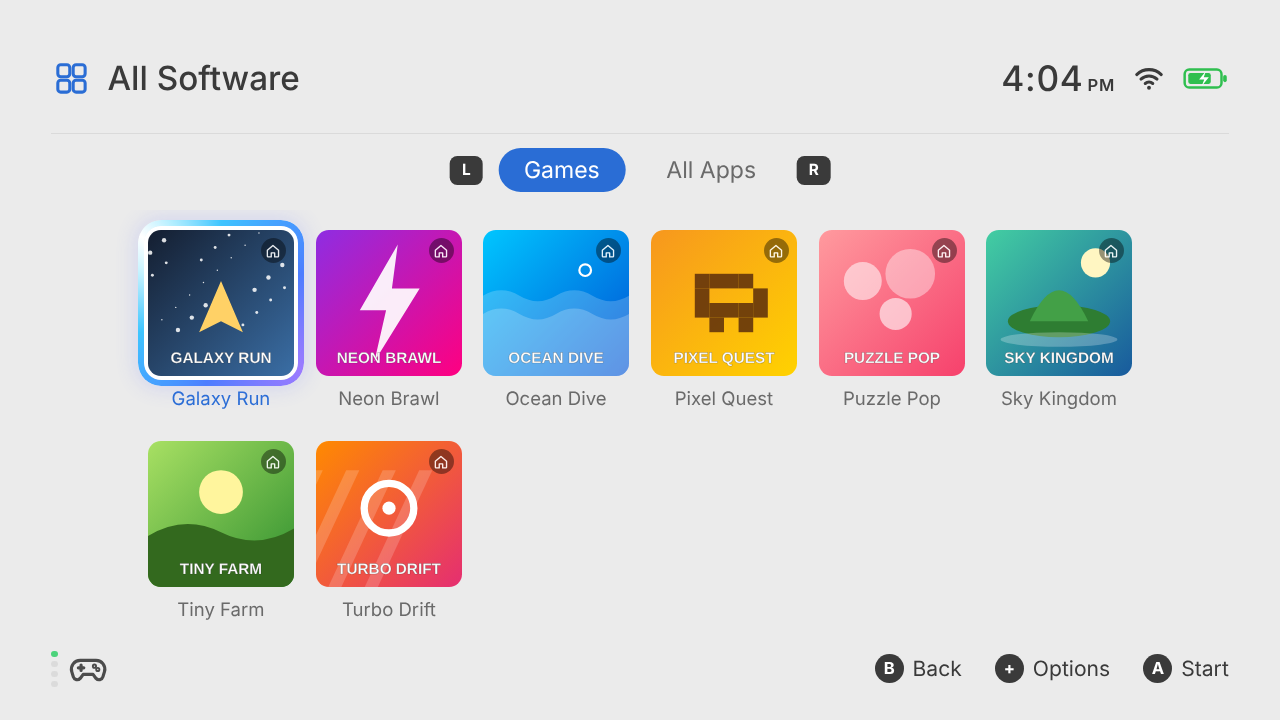
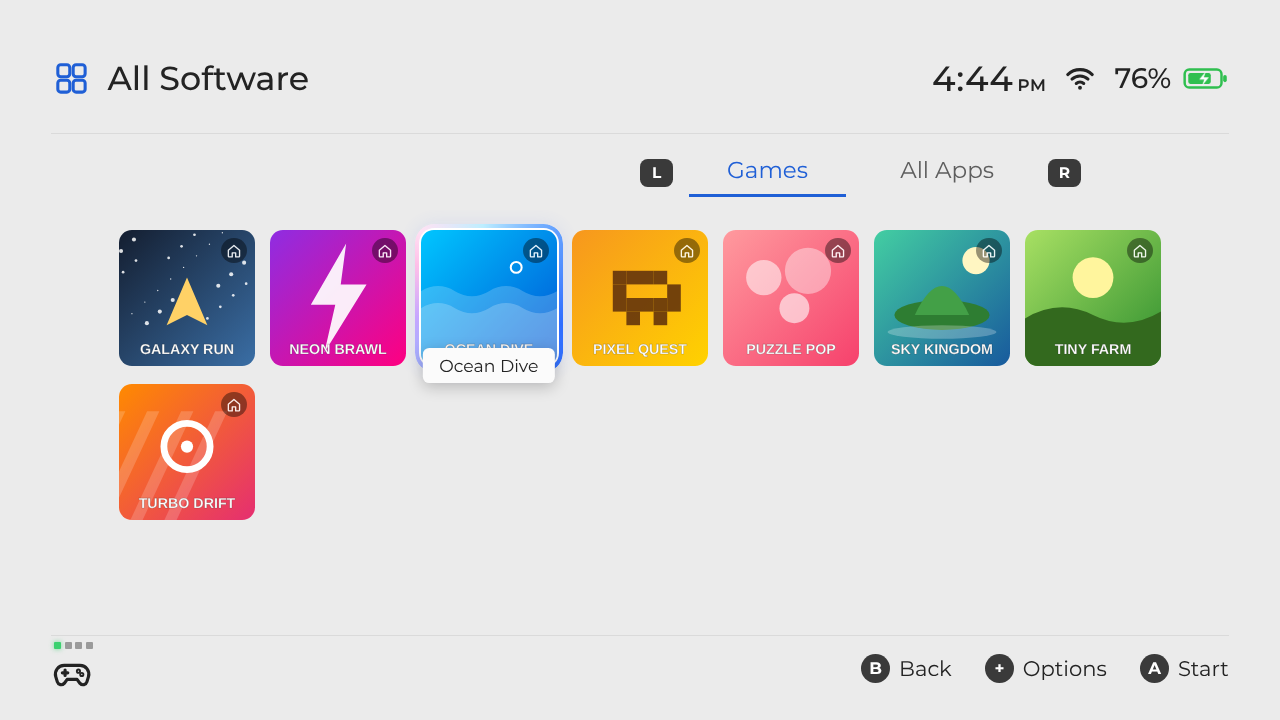
Match the Switch 2 home screen more closely
Based on the home screen tour video:
- Thinner, tighter selection ring in pastel blue/lavender/pink
- Title with a small card icon just left of the tile, text lined up
- Round "View More" button at the end of the row
- Player lights above the controller icon, battery % shown by default
- "A Start" hint on games; larger, bolder dock icons
- All Software: no captions, name pill on the selected tile,
  underlined tabs, tighter grid
- Settings: row separators, blue bar on the current category,
  rule above the button hints
- Refreshed README screenshots

Claude-Session: https://claude.ai/code/session_01PM9wMc1UAW85AwMEWBmdjh

diff --git a/app/src/main/assets/www/index.html b/app/src/main/assets/www/index.html
@@ -29,11 +29,11 @@
   --r: calc(var(--u) * 1);
   --font: "Montserrat", "Roboto", "Noto Sans", "Segoe UI", system-ui, -apple-system, sans-serif;
   --ring: conic-gradient(from var(--a), #3ec5ff 0deg, #4d7dff 70deg, #9b7bff 130deg, #4d7dff 190deg, #3ec5ff 250deg, #c9f4ff 292deg, #ffffff 310deg, #b5efff 328deg, #3ec5ff 360deg);
-  --glow: rgba(120, 132, 255, .45);
+  --glow: rgba(110, 140, 255, .32);
 }
 html[data-theme=white] {
-  --bg:#e9e9e9; --ovBg:#ebebeb; --fg:#3a3a3a; --fg2:#6a6a6a; --accent:#2a6dd5;
-  --slot:#f6f6f6; --pill:#f2f2f2; --pillLine:transparent; --selBg:#ffffff; --gapRing:#ffffff;
+  --bg:#ebebeb; --ovBg:#ebebeb; --fg:#232323; --fg2:#5e5e5e; --accent:#1f5fd6;
+  --slot:#f7f7f7; --pill:#f6f6f6; --pillLine:transparent; --selBg:#ffffff; --gapRing:#ffffff;
   --panel:#fbfbfb; --line:#dadada; --grey:#7f7f7f; --shadow:rgba(0,0,0,.12); --btn:#3a3a3a; --btnFg:#fff;
   --c-orange:#e8902a; --c-green:#3f9f45; --c-red:#de3434; --c-blue:#3a76cf; --c-teal:#2aa3b1;
 }
@@ -110,7 +110,7 @@ body.full #home { visibility: hidden; }
 #bat.chg { color: #2fbf4f; }
 #bat.chg .lvl { fill: #2fbf4f; }
 #bat .bolt { fill: #fff; }
-#batPct { font-size: calc(var(--u) * 1.6); font-weight: 500; margin-right: calc(var(--u) * -.6); }
+#batPct { font-size: calc(var(--u) * 2.2); font-weight: 500; margin-right: calc(var(--u) * -.5); }
 #batPct:empty { display: none; }
 
 /* ---------- home: tile row ---------- */
@@ -118,13 +118,16 @@ body.full #home { visibility: hidden; }
 #home.enter { animation: enter .32s cubic-bezier(.2,.8,.2,1); }
 @keyframes enter { from { opacity: 0; transform: scale(1.025); } to { opacity: 1; transform: none; } }
 #gameTitle {
-  position: absolute; left: 0; top: calc(var(--oy) + var(--u) * 12);
-  width: var(--tile); overflow: hidden;
-  font-size: calc(var(--u) * 2.05); font-weight: 600; color: var(--accent); line-height: 1.25;
+  position: absolute; left: 0; top: calc(var(--oy) + var(--u) * 11.9);
+  display: flex; align-items: center; gap: calc(var(--u) * .7);
+  font-size: calc(var(--u) * 1.85); font-weight: 500; color: var(--accent); line-height: 1.3;
   white-space: nowrap; opacity: 0; transition: opacity .12s; pointer-events: none;
 }
+#gameTitle .tIcon { flex: 0 0 auto; width: calc(var(--u) * 1.25); height: calc(var(--u) * 1.6); border-radius: calc(var(--u) * .22); background: var(--accent); position: relative; }
+#gameTitle .tIcon::after { content: ''; position: absolute; left: 22%; right: 22%; bottom: 14%; height: 12%; border-radius: 2px; background: rgba(255,255,255,.75); }
+#gameTitle .tClip { flex: 1; min-width: 0; overflow: hidden; }
 #gameTitle span { display: inline-block; white-space: nowrap; }
-#gameTitle.marquee { -webkit-mask-image: linear-gradient(90deg, transparent 0, #000 3%, #000 93%, transparent 100%); mask-image: linear-gradient(90deg, transparent 0, #000 3%, #000 93%, transparent 100%); }
+#gameTitle.marquee .tClip { -webkit-mask-image: linear-gradient(90deg, transparent 0, #000 3%, #000 93%, transparent 100%); mask-image: linear-gradient(90deg, transparent 0, #000 3%, #000 93%, transparent 100%); }
 #gameTitle.marquee span { animation: marquee var(--dur, 6s) ease-in-out infinite alternate; }
 @keyframes marquee { 0%, 18% { transform: translateX(0); } 82%, 100% { transform: translateX(var(--shift, 0px)); } }
 #rowWrap {
@@ -146,11 +149,16 @@ body.full #home { visibility: hidden; }
       color: #fff; font-weight: 700; font-size: calc(var(--u) * 6); }
 .cell .fb { font-size: calc(var(--u) * 4); }
 .tile.slot { cursor: default; }
-.tile.allTile { display: grid; place-items: center; color: var(--fg2); }
-.tile.allTile svg { width: calc(var(--u) * 5.5); height: calc(var(--u) * 5.5); }
-.tile.allTile span { position: absolute; bottom: calc(var(--u) * 1.6); font-size: calc(var(--u) * 1.6); }
+.tile.more {
+  --rr: 50%; flex: 0 0 calc(var(--u) * 7.4); width: calc(var(--u) * 7.4); height: calc(var(--u) * 7.4);
+  align-self: center; margin-left: calc(var(--u) * 1.2); border-radius: 50%;
+  display: grid; place-items: center; color: var(--grey); background: var(--slot);
+  box-shadow: 0 calc(var(--u) * .2) calc(var(--u) * .8) var(--shadow);
+}
+.tile.more svg { width: calc(var(--u) * 3.2); height: calc(var(--u) * 3.2); }
+.tile.more.sel { box-shadow: 0 0 0 calc(var(--u) * .2) var(--gapRing); }
 .tile.sel, .dk.sel, .cell .art.sel, .tprev.sel { animation: selPop .3s cubic-bezier(.3,1.7,.5,1); }
-@keyframes selPop { 0% { transform: scale(.955); } 100% { transform: scale(1); } }
+@keyframes selPop { 0% { transform: scale(.975); } 100% { transform: scale(1); } }
 .tile.pop { animation: pop .28s ease; }
 @keyframes pop { 0% { transform: scale(1); } 40% { transform: scale(.95); } 100% { transform: scale(1); } }
 .nudgeL { animation: nudgeL .22s ease; } .nudgeR { animation: nudgeR .22s ease; }
@@ -227,31 +235,31 @@ img.flip { animation: flip .5s cubic-bezier(.2,.8,.2,1); }
 @keyframes wipe { 60% { opacity: .9; } to { transform: translate(-50%, -50%) scale(400); opacity: 0; } }
 
 /* ---------- the animated selection ring ---------- */
-.g.sel { box-shadow: 0 0 0 calc(var(--u) * .32) var(--gapRing); }
+.g.sel { box-shadow: 0 0 0 calc(var(--u) * .2) var(--gapRing); }
 .g.sel::after {
-  content: ''; position: absolute; inset: calc(var(--u) * -.8);
-  border-radius: calc(var(--rr, var(--r)) + var(--u) * .8); pointer-events: none;
+  content: ''; position: absolute; inset: calc(var(--u) * -.5);
+  border-radius: calc(var(--rr, var(--r)) + var(--u) * .5); pointer-events: none;
 }
 /* The ring is a ring-shaped window over a spinning colour wheel, so the colours travel round it. */
 .g > .ring { display: none; }
 .g.sel > .ring {
   display: block; position: absolute; z-index: 4; pointer-events: none; overflow: hidden;
-  inset: calc(var(--u) * -.8); border-radius: calc(var(--rr, var(--r)) + var(--u) * .8);
-  padding: calc(var(--u) * .46);
+  inset: calc(var(--u) * -.5); border-radius: calc(var(--rr, var(--r)) + var(--u) * .5);
+  padding: calc(var(--u) * .3);
   -webkit-mask: linear-gradient(#000 0 0) content-box, linear-gradient(#000 0 0);
   -webkit-mask-composite: xor; mask-composite: exclude;
   animation: ringIn .28s ease-out both;
 }
 .g.sel > .ring > b {
   position: absolute; left: 50%; top: 50%; width: 175%; aspect-ratio: 1; border-radius: 50%;
-  background: conic-gradient(#3ec5ff 0deg, #4d7dff 70deg, #9b7bff 130deg, #4d7dff 190deg, #3ec5ff 250deg, #c9f4ff 292deg, #ffffff 310deg, #b5efff 328deg, #3ec5ff 360deg);
+  background: conic-gradient(#2f6dff 0deg, #3d7bff 55deg, #8fb3ff 100deg, #c6a6ff 145deg, #ffbfe8 185deg, #ffe2f4 205deg, #bdeeff 245deg, #63a0ff 295deg, #2f6dff 360deg);
   transform: translate(-50%, -50%); will-change: transform;
-  animation: ringSpin 2.2s linear infinite;
+  animation: ringSpin 3s linear infinite;
 }
 @keyframes ringSpin { to { transform: translate(-50%, -50%) rotate(360deg); } }
 @keyframes ringIn { from { opacity: 0; } to { opacity: 1; } }
 .g.sel::after {
-  z-index: -1; box-shadow: 0 0 calc(var(--u) * 1.6) calc(var(--u) * .2) var(--glow);
+  z-index: -1; box-shadow: 0 0 calc(var(--u) * 1.3) 0 var(--glow);
   animation: breathe 1.8s ease-in-out infinite;
 }
 @keyframes spin { to { --a: 360deg; } }
@@ -265,13 +273,14 @@ img.flip { animation: flip .5s cubic-bezier(.2,.8,.2,1); }
 }
 .dk {
   --rr: 50%;
-  width: calc(var(--u) * 5.4); height: calc(var(--u) * 5.4); border-radius: 50%;
+  width: calc(var(--u) * 5.6); height: calc(var(--u) * 5.6); border-radius: 50%;
   display: grid; place-items: center; position: relative; isolation: isolate; cursor: pointer;
   transition: background .12s;
 }
-.dk svg { width: calc(var(--u) * 3); height: calc(var(--u) * 3); }
+.dk svg { width: calc(var(--u) * 3.35); height: calc(var(--u) * 3.35); }
+.dk .ic { stroke-width: 2.1; }
 .dk.sel { background: var(--selBg); }
-.dk.sel::after, .dk.sel > .ring { border-radius: 50%; inset: calc(var(--u) * -.55); }
+.dk.sel::after, .dk.sel > .ring { border-radius: 50%; inset: calc(var(--u) * -.45); }
 .dk.red { background: #e4202a; }
 .dk.red svg { fill: #fff; stroke: none; width: calc(var(--u) * 2.6); height: calc(var(--u) * 2.6); }
 #dockLabel { position: relative; width: 100%; height: calc(var(--u) * 3); margin-top: calc(var(--u) * 1.15); }
@@ -287,9 +296,9 @@ img.flip { animation: flip .5s cubic-bezier(.2,.8,.2,1); }
   display: flex; align-items: center; justify-content: space-between; pointer-events: none;
 }
 #foot > * { pointer-events: auto; }
-#padInd { display: flex; align-items: center; gap: calc(var(--u) * .7); color: var(--fg); opacity: .9; }
-#padInd .leds { display: flex; flex-direction: column; gap: calc(var(--u) * .28); }
-#padInd .leds i { width: calc(var(--u) * .5); height: calc(var(--u) * .5); border-radius: 50%; background: var(--line); display: block; }
+#padInd { display: flex; flex-direction: column; align-items: flex-start; gap: calc(var(--u) * .35); color: var(--fg); }
+#padInd .leds { display: flex; gap: calc(var(--u) * .3); margin-left: calc(var(--u) * .2); }
+#padInd .leds i { width: calc(var(--u) * .55); height: calc(var(--u) * .55); border-radius: 1px; background: #9a9a9a; display: block; }
 #padInd.on .leds i:first-child { background: #3bd16f; }
 #padInd svg { width: calc(var(--u) * 3.3); height: calc(var(--u) * 3.3); }
 #hints { display: flex; gap: calc(var(--u) * 2.6); font-size: calc(var(--u) * 1.65); color: var(--fg); }
@@ -312,13 +321,12 @@ img.flip { animation: flip .5s cubic-bezier(.2,.8,.2,1); }
 }
 .ovTitle svg { width: calc(var(--u) * 3.2); height: calc(var(--u) * 3.2); color: var(--accent); }
 .ovRule { position: absolute; left: calc(var(--u) * 4); right: calc(var(--u) * 4); top: calc(var(--u) * 10.4); height: 1px; background: var(--line); }
-.ovRule.bottom { top: auto; bottom: calc(var(--u) * 7.2); }
+.ovRule.bottom { top: auto; bottom: calc(var(--u) * 6.6); }
 
 /* tabs */
 .tabs { position: absolute; top: calc(var(--u) * 11.6); left: 50%; transform: translateX(-50%); display: flex; align-items: center; gap: calc(var(--u) * 1.2); font-size: calc(var(--u) * 1.8); }
-.tabs .t { padding: calc(var(--u) * .6) calc(var(--u) * 2); border-radius: 999px; color: var(--fg2); cursor: pointer; }
-.tabs .t.on { background: var(--accent); color: #fff; }
-html[data-theme=black] .tabs .t.on, html[data-theme=video] .tabs .t.on { color: #000; }
+.tabs .t { padding: calc(var(--u) * .6) calc(var(--u) * 3) calc(var(--u) * .8); color: var(--fg2); cursor: pointer; border-bottom: calc(var(--u) * .25) solid transparent; }
+.tabs .t.on { color: var(--accent); border-bottom-color: var(--accent); }
 .tabs .btn { width: calc(var(--u) * 2.6); border-radius: calc(var(--u) * .6); font-size: calc(var(--u) * 1.2); }
 
 /* all software grid */
@@ -326,17 +334,19 @@ html[data-theme=black] .tabs .t.on, html[data-theme=video] .tabs .t.on { color: 
   position: absolute; top: calc(var(--u) * 16.4); bottom: calc(var(--u) * 7.4); left: 0; right: 0;
   overflow-y: auto; scrollbar-width: none;
   padding: calc(var(--u) * 1.6) var(--side) calc(var(--u) * 3);
-  display: grid; grid-template-columns: repeat(auto-fill, calc(var(--u) * 11.4));
-  gap: calc(var(--u) * 2.4) calc(var(--u) * 1.7); align-content: start; justify-content: center;
+  display: grid; grid-template-columns: repeat(auto-fill, calc(var(--u) * 10.6));
+  gap: calc(var(--u) * 1.4) calc(var(--u) * 1.2); align-content: start; justify-content: center;
 }
 .grid::-webkit-scrollbar { display: none; }
-.cell { width: calc(var(--u) * 11.4); cursor: pointer; }
+.cell { width: calc(var(--u) * 10.6); cursor: pointer; position: relative; }
 .cell .art { width: 100%; aspect-ratio: 1; border-radius: var(--r); position: relative; background: var(--slot); isolation: isolate; }
 .cell .nm {
-  margin-top: calc(var(--u) * .9); font-size: calc(var(--u) * 1.45); text-align: center;
-  white-space: nowrap; overflow: hidden; text-overflow: ellipsis; color: var(--fg2);
+  display: none; position: absolute; z-index: 8; left: 50%; top: calc(100% - var(--u) * 1.4); transform: translateX(-50%);
+  max-width: calc(var(--u) * 24); padding: calc(var(--u) * .55) calc(var(--u) * 1.3); border-radius: calc(var(--u) * .5);
+  background: var(--panel); color: var(--fg); font-size: calc(var(--u) * 1.35); white-space: nowrap; overflow: hidden; text-overflow: ellipsis;
+  box-shadow: 0 calc(var(--u) * .3) calc(var(--u) * 1.2) rgba(0,0,0,.22);
 }
-.cell.sel .nm { color: var(--accent); }
+.cell.sel .nm { display: block; animation: swapIn .22s cubic-bezier(.2,.8,.2,1); }
 .cell .pin {
   position: absolute; z-index: 2; top: calc(var(--u) * .6); right: calc(var(--u) * .6);
   width: calc(var(--u) * 2); height: calc(var(--u) * 2); border-radius: 50%;
@@ -355,8 +365,7 @@ html[data-theme=black] .tabs .t.on, html[data-theme=video] .tabs .t.on { color: 
   border-radius: calc(var(--u) * .7); cursor: pointer; isolation: isolate; --rr: calc(var(--u) * .7);
 }
 .navItem.cur { color: var(--accent); }
-.navItem.cur::marker { content: none; }
-.navItem.cur:not(.sel) { background: var(--slot); }
+.navItem.cur::before { content: ''; position: absolute; left: calc(var(--u) * -.6); top: 18%; bottom: 18%; width: calc(var(--u) * .3); border-radius: 2px; background: var(--accent); }
 .navItem.sel { background: var(--selBg); }
 .setPane {
   position: absolute; top: calc(var(--u) * 11.6); bottom: calc(var(--u) * 8); left: calc(var(--u) * 31); right: calc(var(--u) * 4);
@@ -370,7 +379,8 @@ html[data-theme=black] .tabs .t.on, html[data-theme=video] .tabs .t.on { color: 
   min-height: calc(var(--u) * 6.4); padding: calc(var(--u) * 1) calc(var(--u) * 2);
   border-radius: calc(var(--u) * .7); font-size: calc(var(--u) * 1.85); cursor: pointer;
 }
-.setRow + .setRow { margin-top: calc(var(--u) * .5); }
+.setRow + .setRow:not(.sel) { border-top: 1px solid var(--line); border-radius: 0; }
+.setRow.sel + .setRow { border-top-color: transparent; }
 .setRow.sel { background: var(--selBg); }
 .setRow .val { color: var(--accent); display: flex; align-items: center; gap: calc(var(--u) * 1); font-size: calc(var(--u) * 1.7); white-space: nowrap; }
 .setRow .desc { display: block; font-size: calc(var(--u) * 1.35); color: var(--fg2); margin-top: calc(var(--u) * .4); }
@@ -522,7 +532,7 @@ const store = {
   get(k, d) { try { const v = localStorage.getItem('ch.' + k); return v == null ? d : JSON.parse(v); } catch (e) { return d; } },
   set(k, v) { try { localStorage.setItem('ch.' + k, JSON.stringify(v)); } catch (e) {} },
 };
-const DEFAULTS = { theme: 'white', dim: 0.25, blur: 0, clock: 'system', batPct: false, sounds: true, haptics: true,
+const DEFAULTS = { theme: 'white', dim: 0.25, blur: 0, clock: 'system', batPct: true, sounds: true, haptics: true,
                    swapAB: false, orientation: 'landscape', immersive: true, oneTap: true,
                    music: true, musicVol: 0.5, musicSrc: 'builtin', sgdbKey: '' };
 const cfg = Object.assign({}, DEFAULTS, store.get('cfg', {}));
@@ -884,15 +894,14 @@ function renderRow() {
     t.style.setProperty('--i', Hm.items.length);
     row.appendChild(t); Hm.items.push({ type: 'app', pkg, el: t });
   });
-  if (all.length > MAX_HOME) {
-    const t = el('div', 'tile g allTile', svg('grid') + '<span>All Software</span>');
-    row.appendChild(t); Hm.items.push({ type: 'all', el: t });
-  }
-  Hm.items.forEach((it, i) => onPress(it.el, () => tapRow(i), () => { selectRow(i); rowOptions(); }));
-  for (let i = Hm.items.length; i < 6; i++) {
+  for (let i = Hm.items.length; i < 4; i++) {
     const s = el('div', 'tile slot'); s.style.setProperty('--i', i); onPress(s, () => { Snd.select(); openAll({ mode: 'add', title: 'Add software to Home' }); });
     row.appendChild(s);
   }
+  const more = el('div', 'tile g more', svg('grid'));
+  more.style.setProperty('--i', Math.max(4, Hm.items.length));
+  row.appendChild(more); Hm.items.push({ type: 'all', el: more });
+  Hm.items.forEach((it, i) => onPress(it.el, () => tapRow(i), () => { selectRow(i); rowOptions(); }));
   Hm.idx = clamp(Hm.idx, 0, Math.max(0, Hm.items.length - 1));
   if (!Hm.items.length) Hm.zone = 'dock';
   refreshSel();
@@ -907,9 +916,9 @@ function refreshSel() {
 function updateTitle() {
   const t = $('#gameTitle'), it = Hm.items[Hm.idx];
   if (topOverlay() || Hm.zone !== 'row' || !it) { t.style.opacity = 0; return; }
-  const txt = it.type === 'all' ? 'All Software' : (BY[it.pkg] ? BY[it.pkg].label : '');
+  const txt = it.type === 'all' ? 'View More' : (BY[it.pkg] ? BY[it.pkg].label : '');
   const changed = t.dataset.txt !== txt || t.style.opacity === '0';
-  if (t.dataset.txt !== txt) { t.dataset.txt = txt; t.innerHTML = '<span>' + esc(txt) + '</span>'; }
+  if (t.dataset.txt !== txt) { t.dataset.txt = txt; t.innerHTML = (it.type === 'all' ? '' : '<i class="tIcon"></i>') + '<div class="tClip"><span>' + esc(txt) + '</span></div>'; }
   positionTitle(); t.style.opacity = 1;
   if (changed) { retrigger(t, 'swap'); fitTitle(); }
 }
@@ -917,17 +926,18 @@ function positionTitle() {
   const it = Hm.items[Hm.idx]; if (!it) return;
   const t = $('#gameTitle');
   // Layout position (ignores animations), so the title always sits exactly over its tile.
-  const wrap = $('#rowWrap');
-  const x = wrap.getBoundingClientRect().left + it.el.offsetLeft - wrap.scrollLeft;
-  t.style.width = it.el.offsetWidth + 'px';
-  t.style.transform = `translateX(${x}px)`;
+  const wrap = $('#rowWrap'), icon = t.querySelector('.tIcon');
+  const shift = icon ? icon.offsetWidth + parseFloat(getComputedStyle(t).columnGap || 0) : 0;
+  const x = wrap.getBoundingClientRect().left + it.el.offsetLeft - wrap.scrollLeft - shift;
+  t.style.width = (Math.max(it.el.offsetWidth, 240) + shift) + 'px';
+  t.style.transform = `translateX(${x}px)`;   // icon sits just left of the tile, text lines up with it
 }
 /* Long names scroll back and forth inside the tile's width. */
 function fitTitle() {
-  const t = $('#gameTitle'), span = t.firstElementChild; if (!span) return;
+  const t = $('#gameTitle'), clip = t.querySelector('.tClip'), span = clip && clip.firstElementChild; if (!span) return;
   t.classList.remove('marquee');
   requestAnimationFrame(() => {
-    const over = span.scrollWidth - t.clientWidth;
+    const over = span.scrollWidth - clip.clientWidth;
     if (over > 2) {
       t.style.setProperty('--shift', -(over + 6) + 'px');
       t.style.setProperty('--dur', Math.max(2.5, over / 70 + 2).toFixed(1) + 's');
@@ -1054,7 +1064,10 @@ function refreshOverlays() { stack.forEach(o => o.refresh && o.refresh()); }
 const BTN = { a: 'A', b: 'B', x: 'X', y: 'Y', plus: '+', minus: '−', l: 'L', r: 'R' };
 function updateHints() {
   const top = topOverlay();
-  const list = top ? top.hints() : (Hm.zone === 'dock' && DOCK[Hm.dockIdx].fixed ? [['a', 'OK']] : [['plus', 'Options'], ['a', 'OK']]);
+  const cur = Hm.items[Hm.idx];
+  const list = top ? top.hints()
+    : Hm.zone === 'dock' ? (DOCK[Hm.dockIdx].fixed ? [['a', 'OK']] : [['plus', 'Options'], ['a', 'OK']])
+    : cur && cur.type === 'app' ? [['plus', 'Options'], ['a', 'Start']] : [['a', 'OK']];
   const box = $('#hints'), sig = list.map(x => x.join(':')).join('|');
   if (box.dataset.sig === sig) return;
   box.dataset.sig = sig; box.innerHTML = '';
@@ -1203,7 +1216,7 @@ async function sgdbApply(pkg, url) {
 }
 function openCoverPicker(pkg, name, grids) {
   const ov = el('section', 'ov full');
-  ov.innerHTML = `<div class="ovTitle">${svg('album')}<span>${esc(name)}</span></div><div class="ovRule"></div>
+  ov.innerHTML = `<div class="ovTitle">${svg('album')}<span>${esc(name)}</span></div><div class="ovRule"></div><div class="ovRule bottom"></div>
     <div class="tabs"><span class="t on">SteamGridDB covers</span></div><div class="grid"></div>`;
   const grid = $('.grid', ov);
   let sel = 0;
@@ -1277,7 +1290,7 @@ function openAll(opts) {
   opts = opts || {};
   const ov = el('section', 'ov full');
   ov.innerHTML = `<div class="ovTitle">${svg('grid')}<span>${esc(opts.title || 'All Software')}</span></div>
-    <div class="ovRule"></div>
+    <div class="ovRule"></div><div class="ovRule bottom"></div>
     <div class="tabs"><i class="btn">L</i><span class="t" data-t="games">Games</span><span class="t" data-t="all">All Apps</span><i class="btn">R</i></div>
     <div class="grid"></div>`;
   const grid = $('.grid', ov);
@@ -1472,7 +1485,7 @@ const SETTINGS = [
 
 function openSettings(startCat) {
   const ov = el('section', 'ov full');
-  ov.innerHTML = `<div class="ovTitle">${svg('gear')}<span>Launcher Settings</span></div><div class="ovRule"></div>
+  ov.innerHTML = `<div class="ovTitle">${svg('gear')}<span>Launcher Settings</span></div><div class="ovRule"></div><div class="ovRule bottom"></div>
     <nav class="setNav"></nav><div class="setPane"></div>`;
   const nav = $('.setNav', ov), pane = $('.setPane', ov);
   let cat = startCat || 0, focus = 'nav', row = 0, rows = [], rowEls = [];
